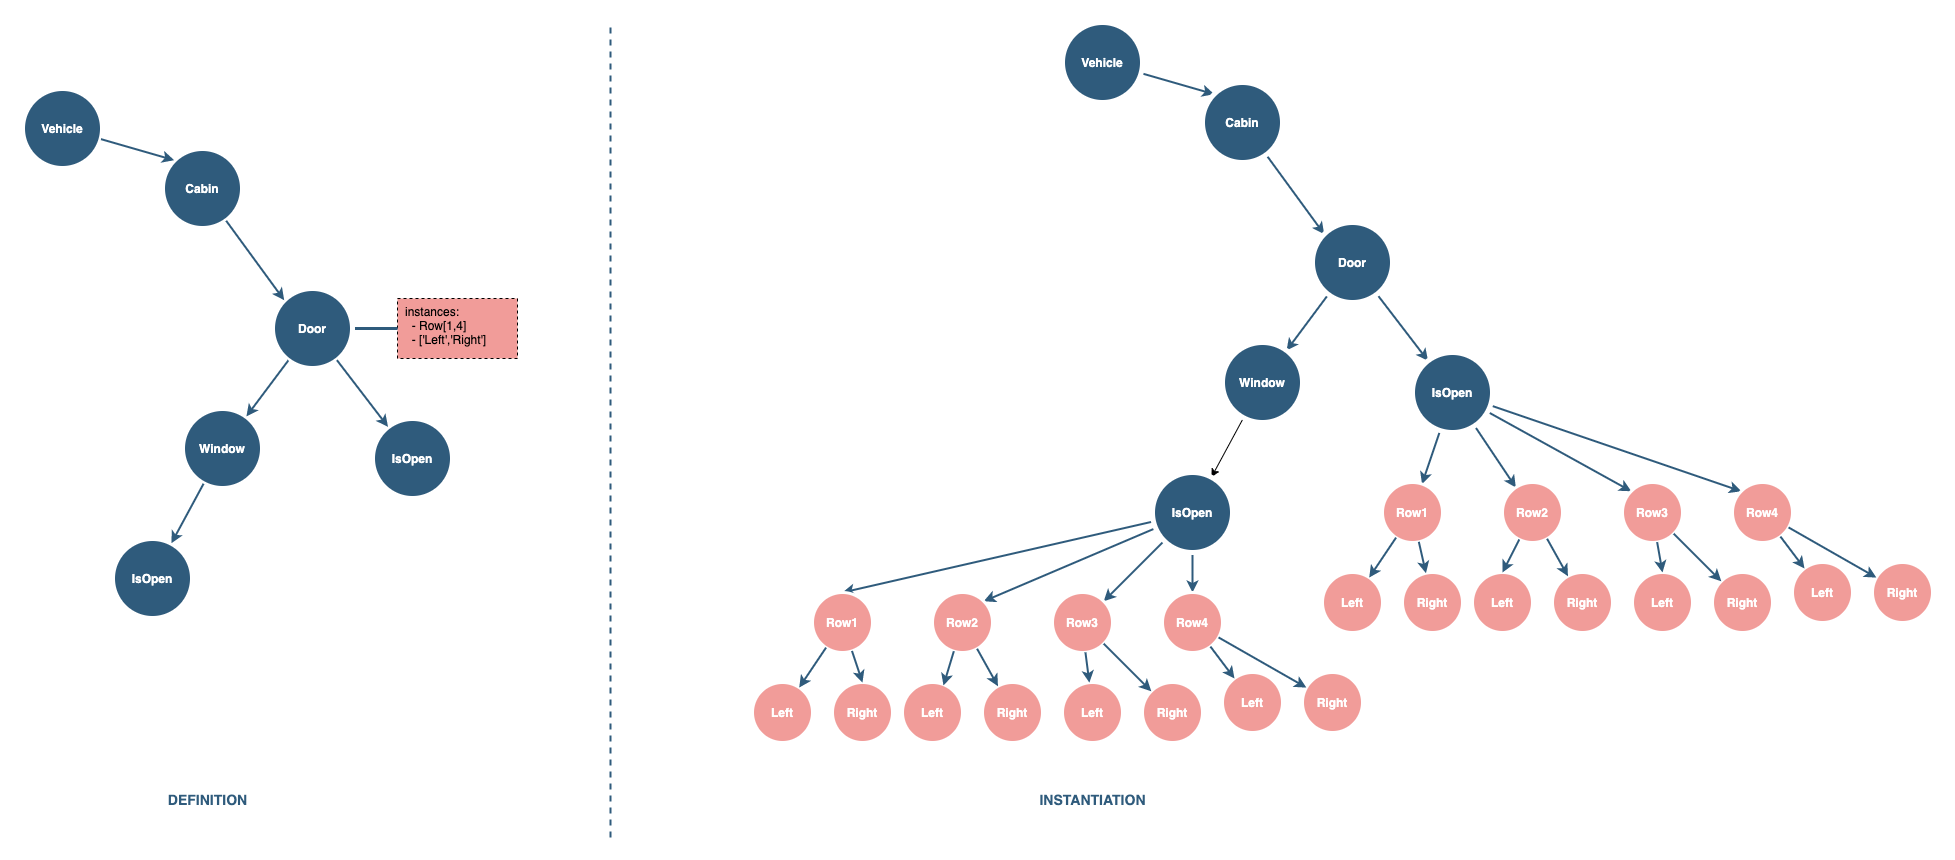
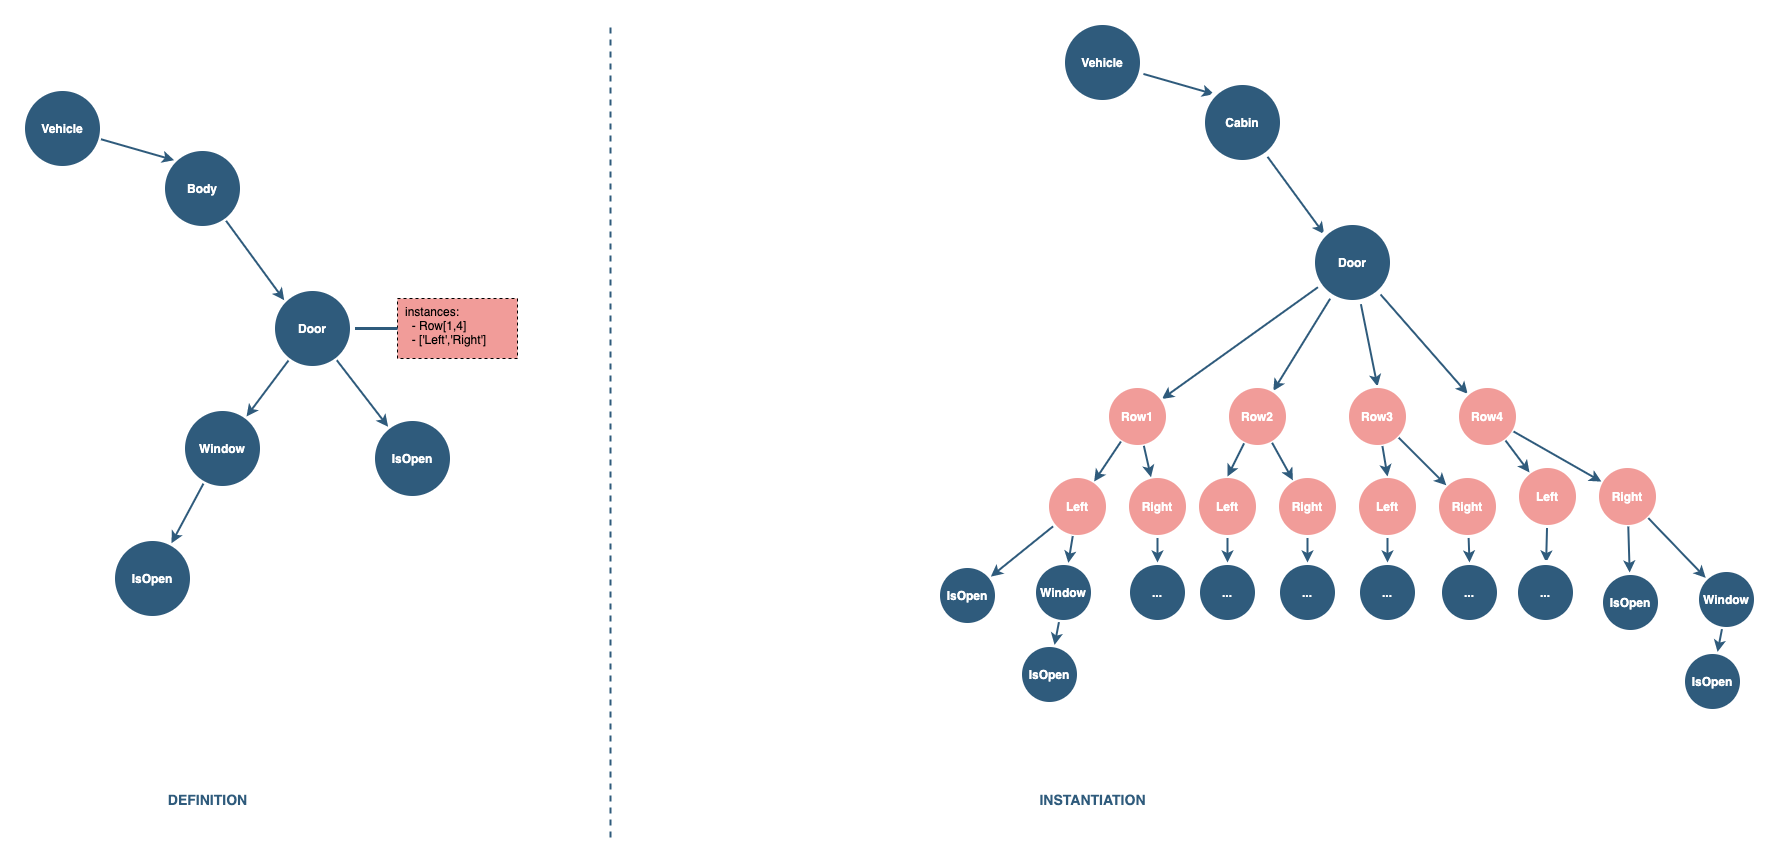
Updated documentation according to discussion
* Took review of @gunnarx into account
* Changed resulting tree, as discussed

diff --git a/docs-gen/content/rule_set/instances.md b/docs-gen/content/rule_set/instances.md
@@ -4,42 +4,35 @@ date: 2019-07-31T15:27:36+02:00
 weight: 5
 ---
 
-As VSS resembles primarily the physical structure of the vehicle. So
-quite often  you'll find repetitions of branches and data entries
-(e.g. doors, axles, etc), which leads to:
-1. Hard-coded repetitions in the specification.
-2. Span-out of the tree from the top, without gaining much information to it.
-3. Issues with instance driven implementations, which might use the specification.
+As VSS resembles primarily the physical structure of the vehicle, so
+quite often you'll find repetitions of branches and data entries
+(e.g. doors, axles, etc), which leads to hard-coded repetitions of
+branches and data entries in the specification. Instances remove the need of
+repeating definitions, by defining at the node itself how often it occurs in
+the resulting tree. They are meant as a short-cut in the specification and
+interpreted by the tools.
 
 ![Example tree](/vehicle_signal_specification/images/instances.png?width=60pc)
 
 
-Moreover, they're dynamic and depend heavily on the vehicle type. To
-overcome these issues, instances are introduced as a concept. In its
-core, it defines the instances at the node, where they occur and keeps the
-core concepts of the taxonomy together and spans out, where it's needed.
-The URI, as the path from the root to the data entry, determines its
-identifier. For the concept itself (e.g. a single tire), it stays stable.
-From there you can then address the single resources.
-
 
 ## Definition
 
-1. An instance can be defined in any branch or data entry.
-2. The instantiation is done for every data entry in the following path.
+1. An instance can be defined in any branch.
+2. The instantiation is done for every node in the following path.
 3. Instances are defined with the key-word `instances`, followed by its
    definition, which can be either:
    * a list of strings, where each element defines a single instance, e.g.
      `['Left','Right']` results into two instances of every following
      data entry in the path, named `Left` and `Right`
-   * a string, followed by a range, which defines the number of instances:
-     `Position[1,4]` results into 4 instances of every following
+   * a string, followed by a range defined through `[n..m]`, with `n,m` as integer and `n < m`, which defines the number of instances:
+     `Position[1..4]` results into 4 instances of every following
      data entry in the path, named `Position1`, `Position2`, `Position3`
      and `Position4`.
 4. If multiple instances occur in one node or on the path to a data entry,
-   the instances get combined, by the order of occurrence. Following the example above, for each instance `Left` and `Right`, 4 position
-   instances shall be created, addressed by the dot-notation.
-
+   the instances get combined, by the order of occurrence. Following the example above,
+   four position instances will be created for each of the 'Left' and 'Right' instances,
+   resulting into a total number of 8 instances.
 
 ## Example
 
@@ -70,17 +63,25 @@ The example from above in the specification:
 Results in the following dot-notated output:
 
 ```
-Vehicle.Cabin.Door.IsOpen
-Vehicle.Cabin.Door.IsOpen.Row1
-Vehicle.Cabin.Door.IsOpen.Row1.Left
-Vehicle.Cabin.Door.IsOpen.Row1.Right
-Vehicle.Cabin.Door.IsOpen.Row2
-Vehicle.Cabin.Door.IsOpen.Row2.Left
-Vehicle.Cabin.Door.IsOpen.Row2.Right
-Vehicle.Cabin.Door.IsOpen.Row3
-Vehicle.Cabin.Door.IsOpen.Row3.Left
-Vehicle.Cabin.Door.IsOpen.Row3.Right
-Vehicle.Cabin.Door.IsOpen.Row4
-Vehicle.Cabin.Door.IsOpen.Row4.Left
-Vehicle.Cabin.Door.IsOpen.Row4.Right
+Vehicle.Cabin.Door
+Vehicle.Cabin.Door.Row1
+Vehicle.Cabin.Door.Row1.Left
+Vehicle.Cabin.Door.Row1.Left.IsOpen
+Vehicle.Cabin.Door.Row1.Right
+Vehicle.Cabin.Door.Row1.Right.IsOpen
+Vehicle.Cabin.Door.Row2
+Vehicle.Cabin.Door.Row2.Left
+Vehicle.Cabin.Door.Row2.Left.IsOpen
+Vehicle.Cabin.Door.Row2.Right
+Vehicle.Cabin.Door.Row2.Right.IsOpen
+Vehicle.Cabin.Door.Row3
+Vehicle.Cabin.Door.Row3.Left
+Vehicle.Cabin.Door.Row3.Left.IsOpen
+Vehicle.Cabin.Door.Row3.Right
+Vehicle.Cabin.Door.Row3.Right.IsOpen
+Vehicle.Cabin.Door.Row4
+Vehicle.Cabin.Door.Row4.Left
+Vehicle.Cabin.Door.Row4.Left.IsOpen
+Vehicle.Cabin.Door.Row4.Right
+Vehicle.Cabin.Door.Row4.Right.IsOpen
 ```
